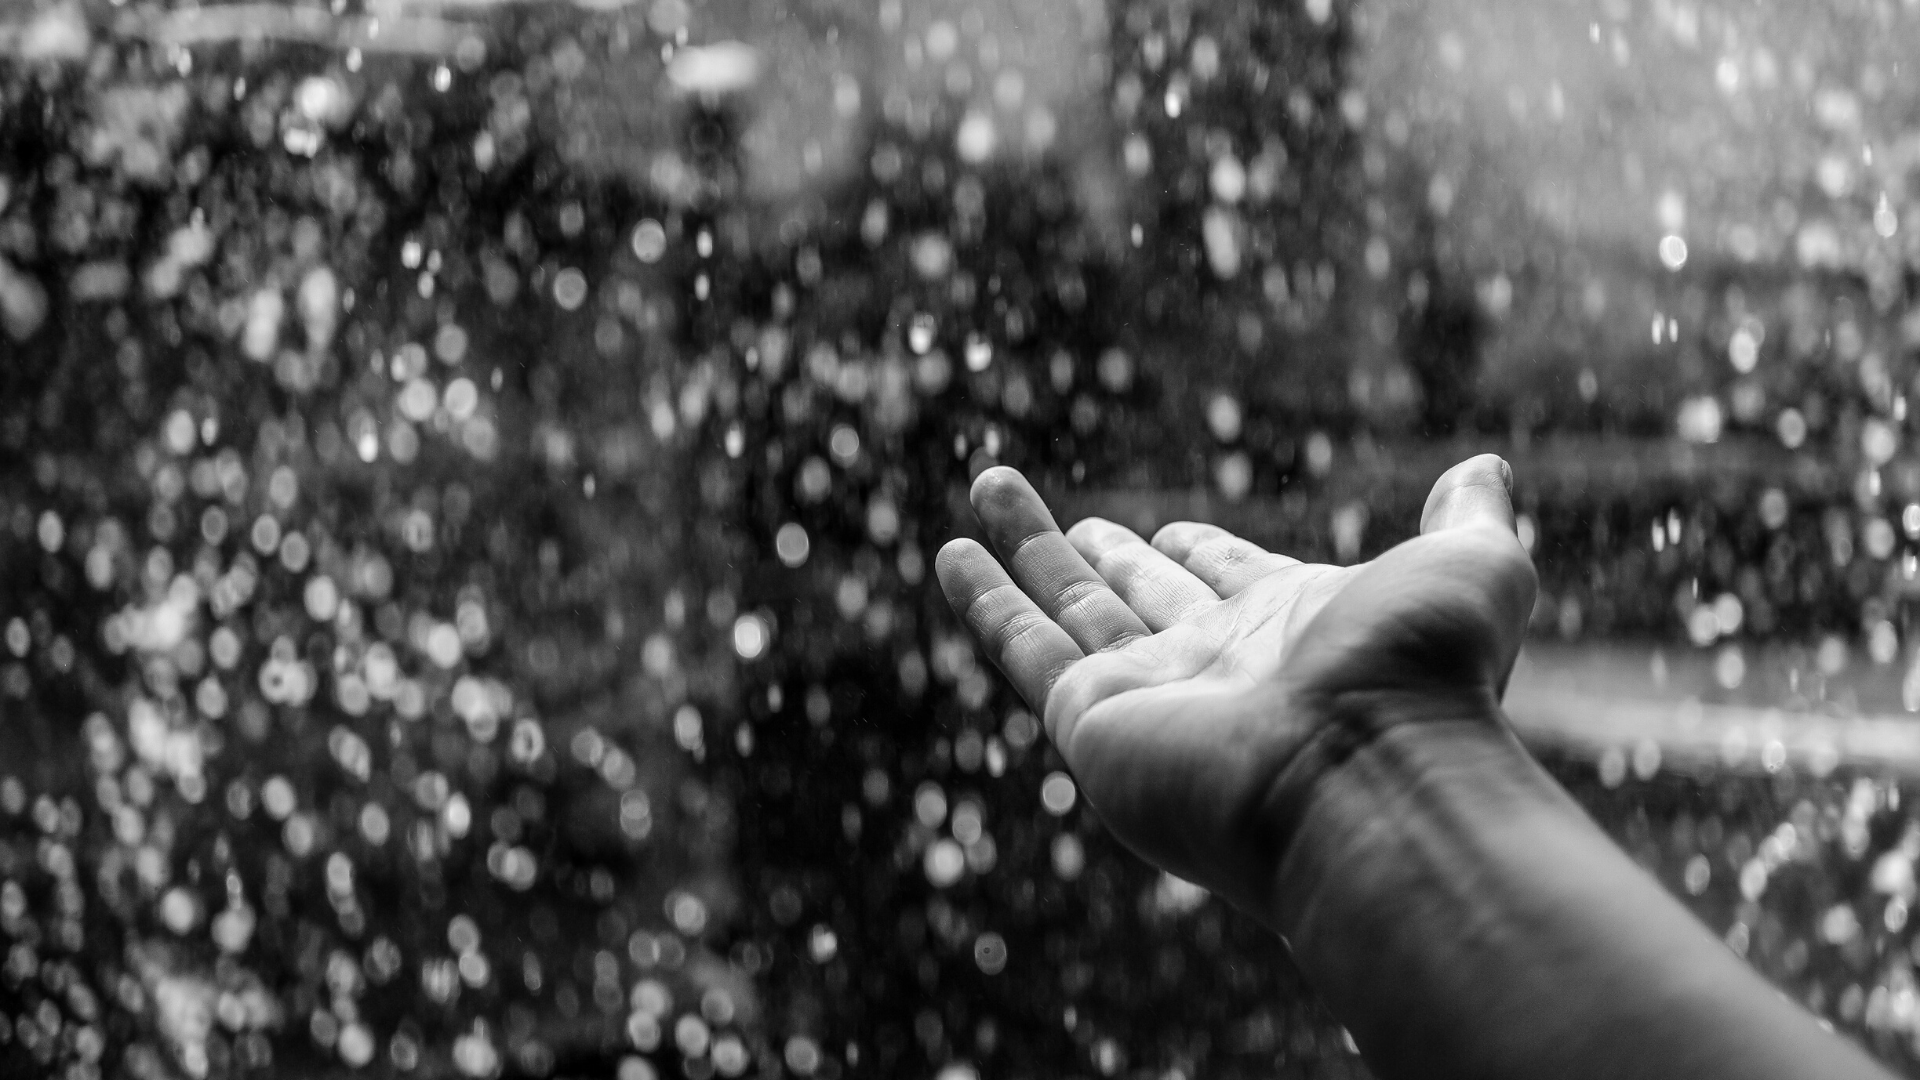
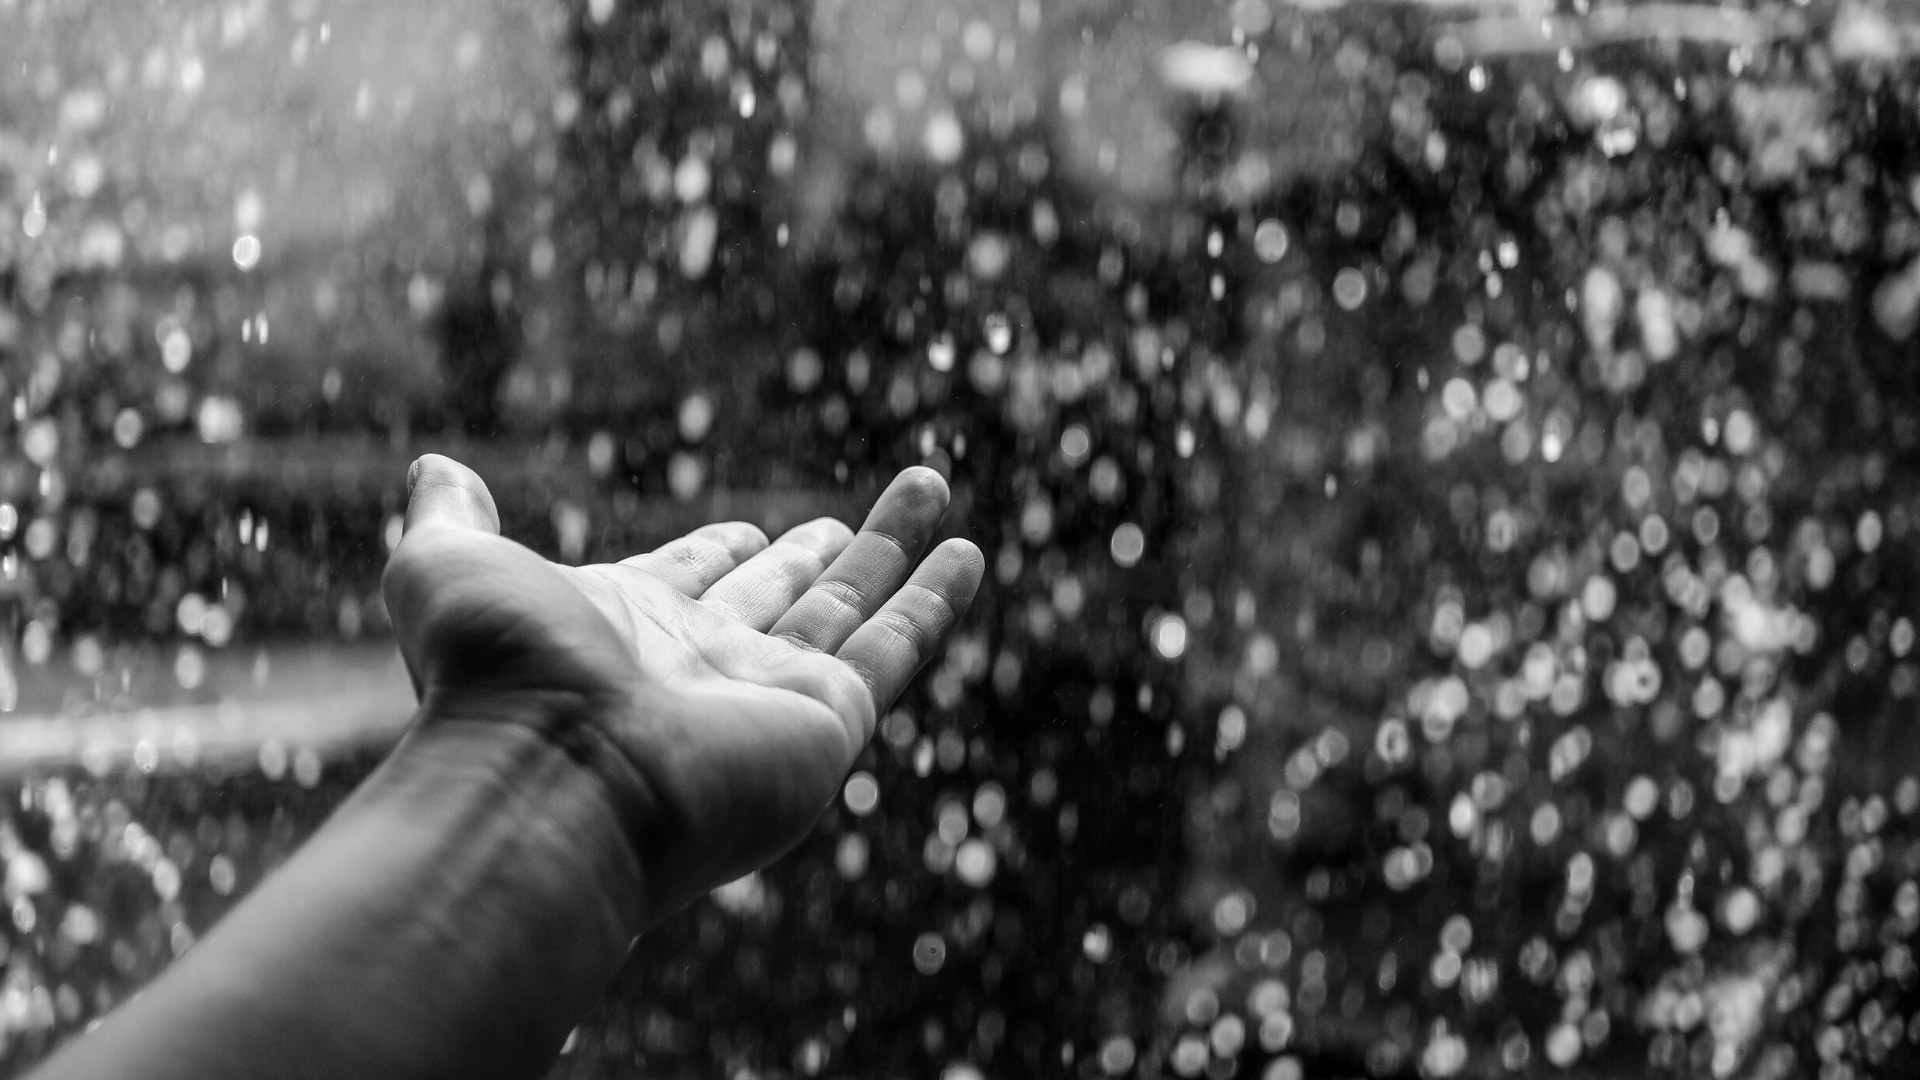
progress bar

diff --git a/index.html b/index.html
@@ -60,17 +60,36 @@
             <div class="main__competence__wrapper">
                 <h2>Mes compétences</h2>
                 <h4>HTML5 / CSS3</h4>
-                <div class="line line1">20%</div>
+                <div class="progressbar__grey">
+                    <div class="progressbar__gold" style="width:25%">25%</div>
+                </div>
+
                 <h4>JAVASCRIPT</h4>
-                <div class="line line2">20%</div>
+                <div class="progressbar__grey">
+                    <div class="progressbar__gold" style="width:20%">20%</div>
+                </div>
+
                 <h4>PHP</h4>
-                <div class="line line3">10%</div>
+                <div class="progressbar__grey">
+                    <div class="progressbar__gold" style="width:10%">10%</div>
+                </div>
+
                 <h4>MySQL</h4>
-                <div class="line line4">5%</div>
+                <div class="progressbar__grey">
+                    <div class="progressbar__gold" style="width:5%">5%</div>
+                </div>
+
+
                 <h4>PYTHON</h4>
-                <div class="line line5">10%</div>
+                <div class="progressbar__grey">
+                    <div class="progressbar__gold" style="width:10%">10%</div>
+                </div>
+
                 <h4>DROIT IMMOBILIER, URBANISME, NTIC, AFFAIRES PUBLIQUES</h4>
-                <div class="line line6">95%</div>
+                <div class="progressbar__grey">
+                    <div class="progressbar__gold" style="width:95%">95%</div>
+                </div>
+
             </div>
         </section>
         <section class="main__section main__experiences">

diff --git a/style.css b/style.css
@@ -10,7 +10,7 @@
 }
 
 h2 {
-    color: #777777;
+    color:#b28735;
 }
 
 p {
@@ -33,7 +33,7 @@ aside {
     position: fixed;
     background-image: url('images/backgroundmainnb.png');
     background-size: auto;
-    background-position: 71% 57%;
+    background-position: 41% 40%;
     background-repeat: no-repeat;
     padding: 10px;
     box-sizing: border-box;
@@ -56,7 +56,7 @@ aside {
 }
 
 .image__background:hover {
-    background-image: url("images/logo.png");
+    background-image: url("images/logogold.png");
 
 }
 
@@ -78,6 +78,22 @@ aside {
     grid-template-columns: 50% 50%;
     text-align: justify;
     grid-gap: 25px;
+}
+
+.progressbar__grey {
+    width: 100%;
+    min-height: 5px;
+    background-color:#b287357a; 
+    border-radius: 2em;
+    box-sizing: border-box;
+}
+
+.progressbar__gold {
+    min-height: 5px;
+    background-color: #b28735;
+    border-radius: 2em;
+    padding: 3px 10px;
+    box-sizing: border-box;
 }
 
 
